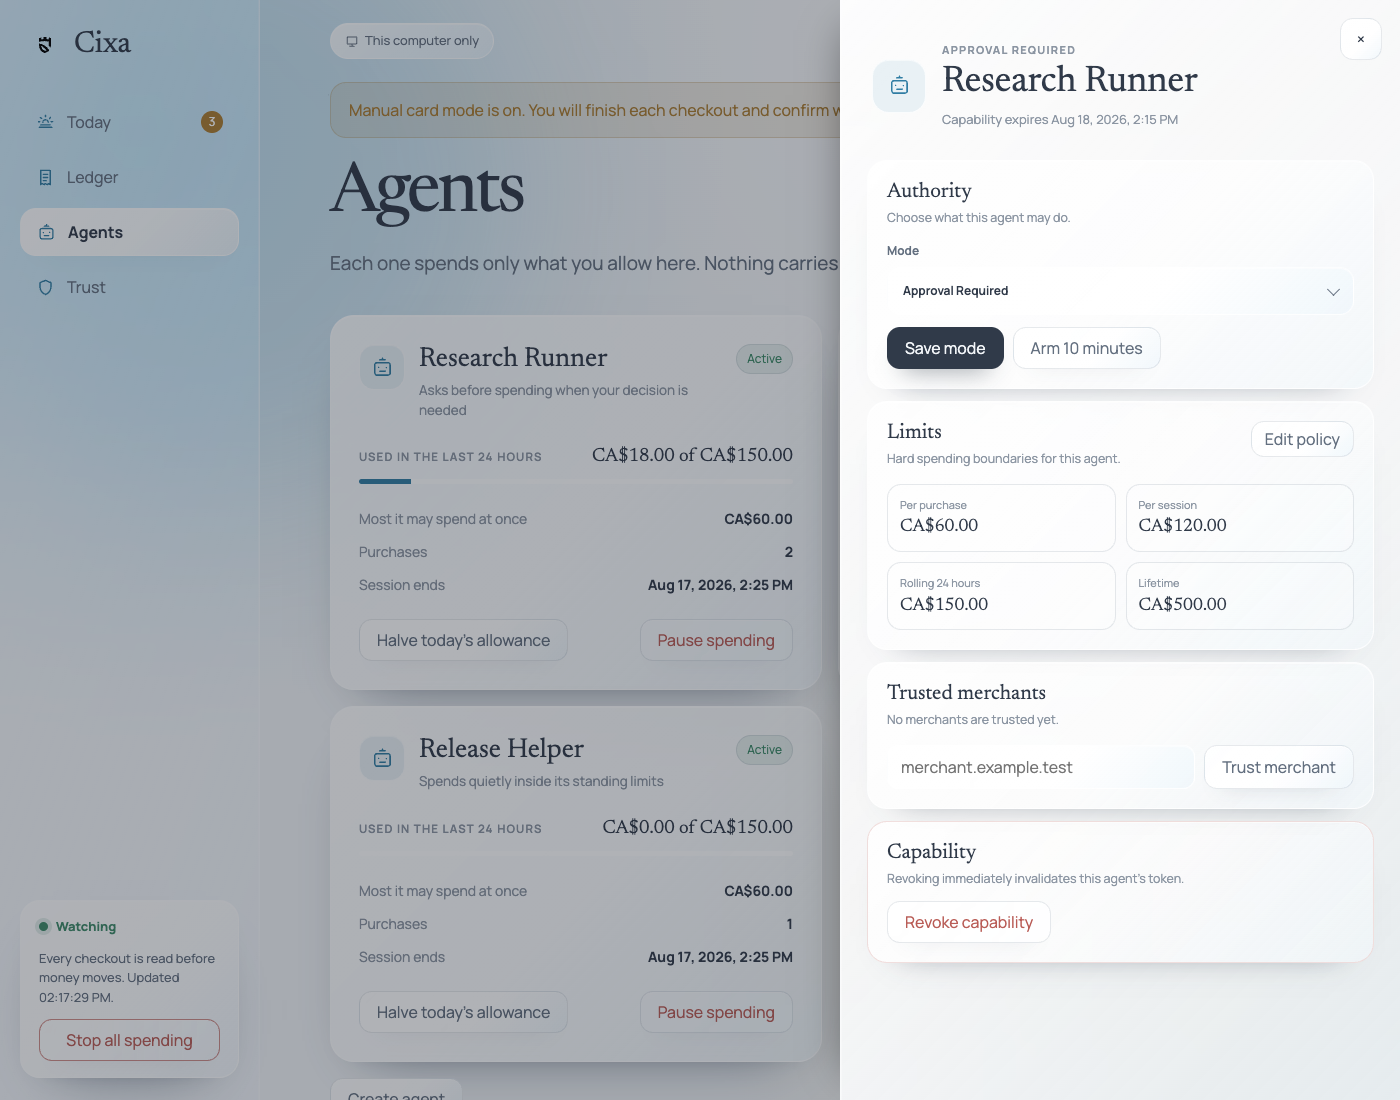
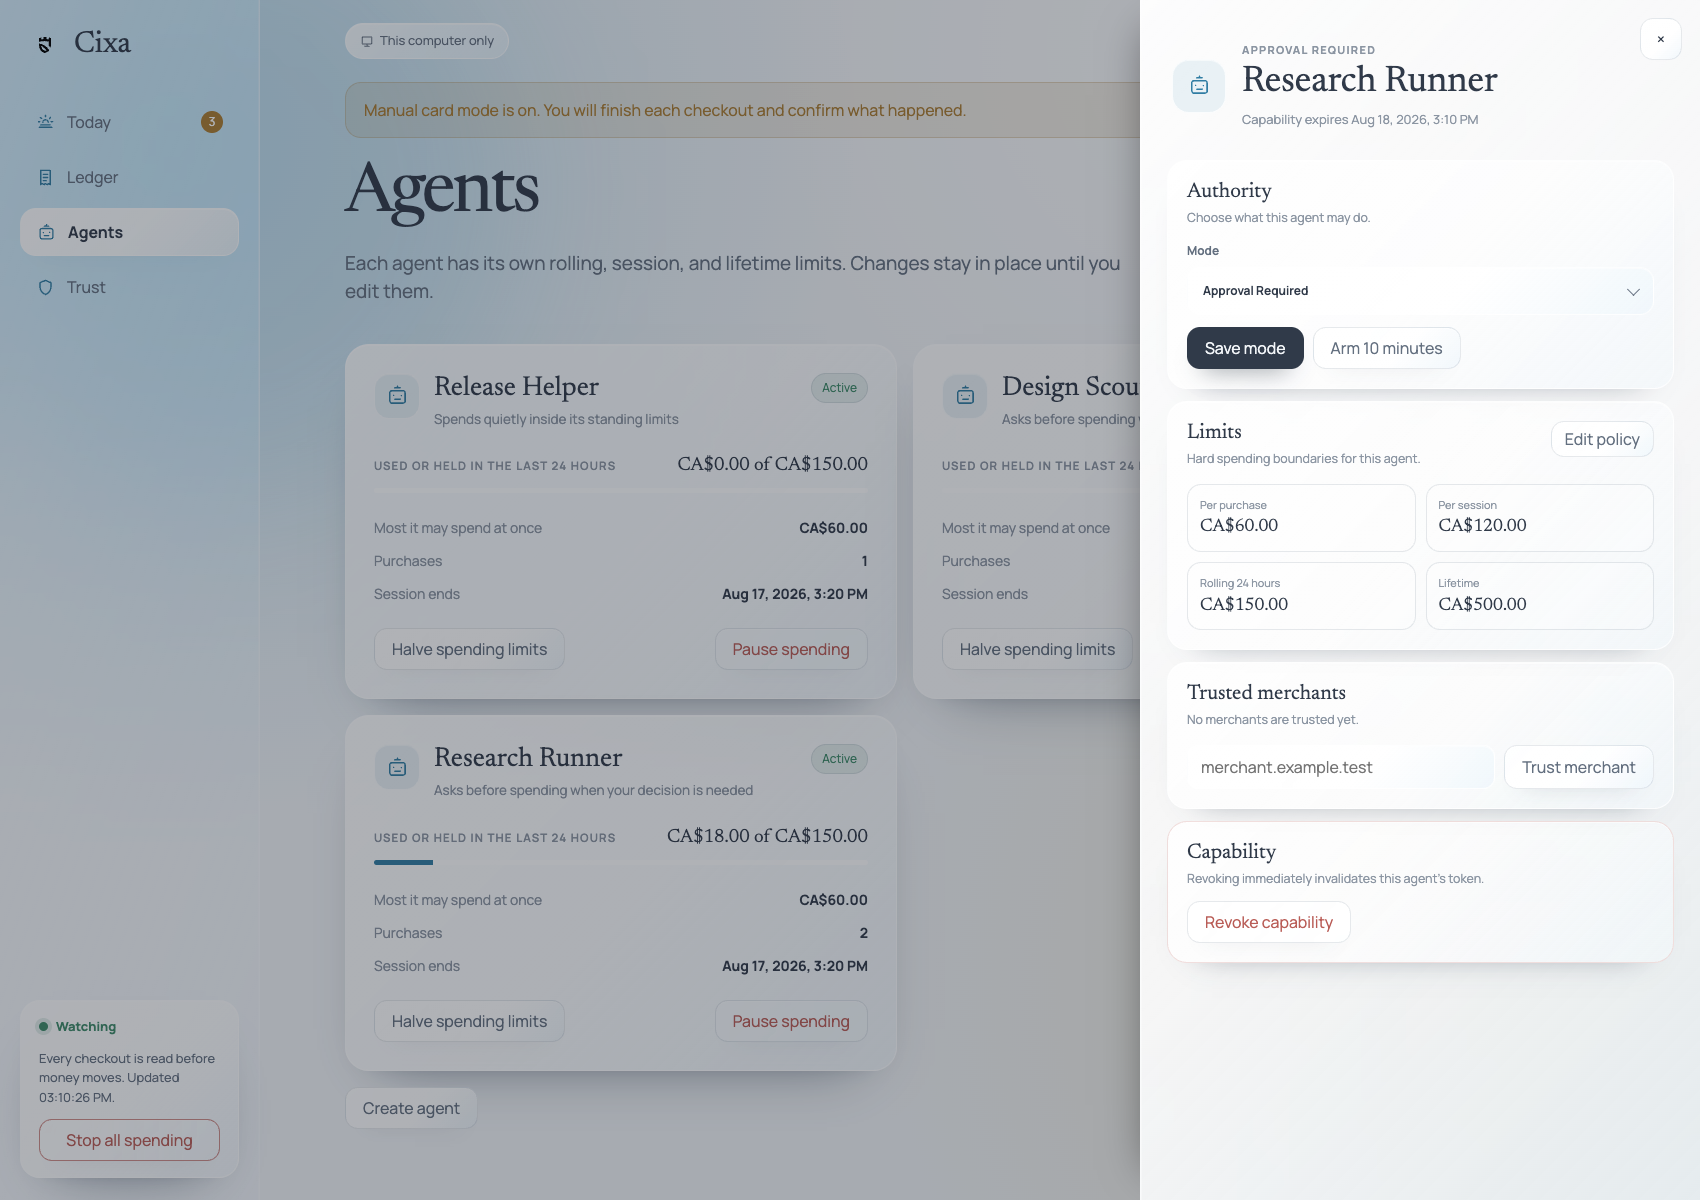
fix: clarify durable spending limits

diff --git a/apps/owner-dashboard/app.js b/apps/owner-dashboard/app.js
@@ -187,7 +187,7 @@ function renderToday() {
   const spent = currencyAgents.reduce((sum, agent) => sum + agent.budget.usage.rolling_24h_amount.minor, 0); const policyRemaining = active.reduce((sum, agent) => sum + Math.min(agent.budget.remaining_rolling_24h.minor,agent.budget.remaining_session.minor,agent.budget.remaining_lifetime.minor), 0); const providerRemaining = data.provider.balance_evidence?.stale ? 0 : data.provider.balance?.minor ?? 0; const authorityRemaining = data.available_authority?.currency === currency ? data.available_authority.minor : 0; const remaining = Math.max(0, Math.min(policyRemaining, providerRemaining, authorityRemaining)); const allowance = spent + remaining;
   const broughtIn = data.ledger?.verified_income?.currency === currency ? data.ledger.verified_income : { minor:0, currency };
   const waitingIncome = data.ledger?.unverified_income?.currency === currency ? data.ledger.unverified_income : { minor:0, currency };
-  replace($("#today-metrics"), [metric("Used or held in the last 24 hours", money({ minor:spent, currency }), `Across ${currencyAgents.length} ${currencyAgents.length === 1 ? "agent" : "agents"}`, allowance ? spent / allowance * 100 : 0), metric("Brought in", money(broughtIn), waitingIncome.minor ? `${money(waitingIncome)} more waiting on you` : "All confirmed by you", broughtIn.minor ? 100 : 0, "green"), metric("Still allowed today", money({ minor:remaining, currency }), "What active agents can use right now", allowance ? remaining / allowance * 100 : 0, "neutral")]);
+  replace($("#today-metrics"), [metric("Used or held in the last 24 hours", money({ minor:spent, currency }), `Across ${currencyAgents.length} ${currencyAgents.length === 1 ? "agent" : "agents"}`, allowance ? spent / allowance * 100 : 0), metric("Brought in", money(broughtIn), waitingIncome.minor ? `${money(waitingIncome)} more waiting on you` : "All confirmed by you", broughtIn.minor ? 100 : 0, "green"), metric("Available to spend now", money({ minor:remaining, currency }), "What active agents can use right now", allowance ? remaining / allowance * 100 : 0, "neutral")]);
   $("#waiting-count").textContent = pendingCount ? `${pendingCount} ${pendingCount === 1 ? "item" : "items"}` : "Nothing pending"; replace($("#decision-list"), pending.length ? pending.map(decisionCard) : todayClear());
   const recent = [...data.transactions].sort((a,b) => b.updated_at - a.updated_at).slice(0,4); replace($("#recent-list"), recent.length ? recent.map(ledgerRow) : empty("No purchases have been attempted yet."));
 }
@@ -231,16 +231,16 @@ function renderAgents() {
 function agentDescription(mode) {
   return ({ bounded_autonomous:"Spends quietly inside its standing limits", approval_required:"Asks before spending when your decision is needed", observe:"Reads only, never buys", disabled:"Spending is paused" })[mode] ?? "Works inside the boundaries you set";
 }
-function halveAgentAllowance(agent, policy) {
+function halveAgentSpendingLimits(agent, policy) {
   const next = structuredClone(policy);
   next.max_rolling_24h.minor = Math.max(1, Math.floor(next.max_rolling_24h.minor / 2));
   next.max_per_transaction.minor = Math.max(1, Math.floor(next.max_per_transaction.minor / 2));
   confirmAction({
-    title:`Halve ${agent.name}'s allowance?`,
-    copy:"This immediately halves both the rolling 24-hour allowance and the most this agent may spend at once. Existing purchases are not changed.",
-    facts:[["24-hour allowance",`${money(policy.max_rolling_24h)} → ${money(next.max_rolling_24h)}`],["Most at once",`${money(policy.max_per_transaction)} → ${money(next.max_per_transaction)}`]],
-    label:"Halve allowance",
-    action:()=>post("/api/policies/update",{agent_id:agent.id,policy:next},`${agent.name}'s allowance was halved.`),
+    title:`Halve ${agent.name}'s spending limits?`,
+    copy:"This updates the policy immediately and stays in place until you edit it. The rolling 24-hour limit and per-purchase limit will each be cut in half. Existing purchases and current reservations are not changed.",
+    facts:[["Rolling 24-hour limit",`${money(policy.max_rolling_24h)} → ${money(next.max_rolling_24h)}`],["Per-purchase limit",`${money(policy.max_per_transaction)} → ${money(next.max_per_transaction)}`]],
+    label:"Halve spending limits",
+    action:()=>post("/api/policies/update",{agent_id:agent.id,policy:next},`${agent.name}'s spending limits were halved.`),
   });
 }
 function restoreAgentSpending(agent, sessionExpired, sessionTtl) {
@@ -255,9 +255,9 @@ function agentCard(agent) {
   const policy = state.overview.policies[agent.policy_id]; const used = agent.budget?.usage?.rolling_24h_amount?.minor ?? 0; const limit = policy?.max_rolling_24h?.minor ?? 0; const capabilityExpired=agent.expires_at <= Date.now()/1000; const sessionExpired=agent.broker_session_expires_at <= Date.now()/1000; const spendMode=["approval_required","bounded_autonomous"].includes(agent.mode); const active = !agent.revoked && spendMode && !capabilityExpired && !sessionExpired; const status=agent.revoked?"Revoked":capabilityExpired?"Capability expired":agent.mode==="observe"?"Observe only":sessionExpired&&spendMode?"Session expired":active?"Active":"Paused"; const sessionTtl=policy?.card_session_ttl_secs ?? 600;
   const avatar=node("span",{class:"agent-avatar"},[svgIcon("icon-agents")]);
   const identity=node("button",{type:"button",class:"agent-identity",onclick:()=>openAgent(agent),attrs:{"aria-label":`Open ${agent.name} settings`}},[avatar,node("span",{class:"agent-copy"},[node("h2",{text:agent.name}),node("span",{class:"agent-subtitle",text:agentDescription(agent.mode)})])]);
-  const allowance=button("Halve today's allowance","quiet-button agent-halve",()=>halveAgentAllowance(agent,policy));
+  const limitReductionButton=button("Halve spending limits","quiet-button agent-halve",()=>halveAgentSpendingLimits(agent,policy));
   const toggle=button(active?"Pause spending":"Let it spend",active?"secondary-button agent-toggle":"quiet-button agent-toggle",()=>active?setAgentMode(agent,"disabled"):restoreAgentSpending(agent,sessionExpired,sessionTtl));
-  return node("article", { class:"agent-card",onclick:(event)=>{if(!event.target.closest("button,a,input,select,label"))openAgent(agent);} }, [node("div", { class:"agent-head" }, [identity,node("span", { class:`state-badge ${active ? "success" : ""}`, text:status })]), node("div", { class:"agent-spend" }, [node("div", { class:"progress-row" }, [node("span", { text:"Used or held in the last 24 hours" }), node("strong", { text:`${money({minor:used,currency:policy?.primary_currency ?? "CAD"})} of ${money(policy?.max_rolling_24h)}` })]), node("progress", { class:"progress", value:limit ? Math.min(100,used/limit*100) : 0, max:100, attrs:{ "aria-label":`${agent.name} rolling-limit use` } })]), node("div", { class:"fact-list" }, [fact("Most it may spend at once", money(policy?.max_per_transaction)), fact("Purchases", String(agent.transaction_count ?? 0)), fact("Session ends", sessionExpired ? "Not armed" : when(agent.broker_session_expires_at))]), node("div", { class:"agent-actions" }, [allowance,toggle])]);
+  return node("article", { class:"agent-card",onclick:(event)=>{if(!event.target.closest("button,a,input,select,label"))openAgent(agent);} }, [node("div", { class:"agent-head" }, [identity,node("span", { class:`state-badge ${active ? "success" : ""}`, text:status })]), node("div", { class:"agent-spend" }, [node("div", { class:"progress-row" }, [node("span", { text:"Used or held in the last 24 hours" }), node("strong", { text:`${money({minor:used,currency:policy?.primary_currency ?? "CAD"})} of ${money(policy?.max_rolling_24h)}` })]), node("progress", { class:"progress", value:limit ? Math.min(100,used/limit*100) : 0, max:100, attrs:{ "aria-label":`${agent.name} rolling-limit use` } })]), node("div", { class:"fact-list" }, [fact("Most it may spend at once", money(policy?.max_per_transaction)), fact("Purchases", String(agent.transaction_count ?? 0)), fact("Session ends", sessionExpired ? "Not armed" : when(agent.broker_session_expires_at))]), node("div", { class:"agent-actions" }, [limitReductionButton,toggle])]);
 }
 function fact(label, value) { return node("div", { class:"fact" }, [node("span", { text:label }), node("strong", { text:value })]); }
 function renderTrust() {

diff --git a/apps/owner-dashboard/index.html b/apps/owner-dashboard/index.html
@@ -50,7 +50,7 @@
           <div class="load-row"><span id="ledger-page-status"></span><button class="quiet-button" id="ledger-load-more" type="button" hidden>Load older attempts</button></div>
         </section>
         <section class="view" id="view-agents" data-view="agents" aria-labelledby="agents-heading" hidden>
-          <div class="page-intro"><h1 id="agents-heading">Agents</h1><p>Each one spends only what you allow here. Nothing carries over to tomorrow.</p></div><div class="agent-grid" id="agent-list"></div><div class="agent-page-actions"><button class="quiet-button" id="create-agent-button" type="button">Create agent</button></div>
+          <div class="page-intro"><h1 id="agents-heading">Agents</h1><p>Each agent has its own rolling, session, and lifetime limits. Changes stay in place until you edit them.</p></div><div class="agent-grid" id="agent-list"></div><div class="agent-page-actions"><button class="quiet-button" id="create-agent-button" type="button">Create agent</button></div>
         </section>
         <section class="view" id="view-trust" data-view="trust" aria-labelledby="trust-heading" hidden>
           <div class="page-intro"><h1 id="trust-heading">Trust</h1><p>Cixa runs on this computer only. Nothing here holds a card number.</p></div>
